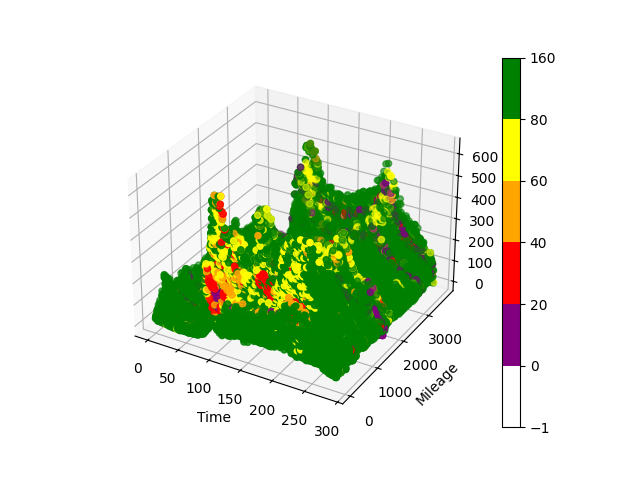
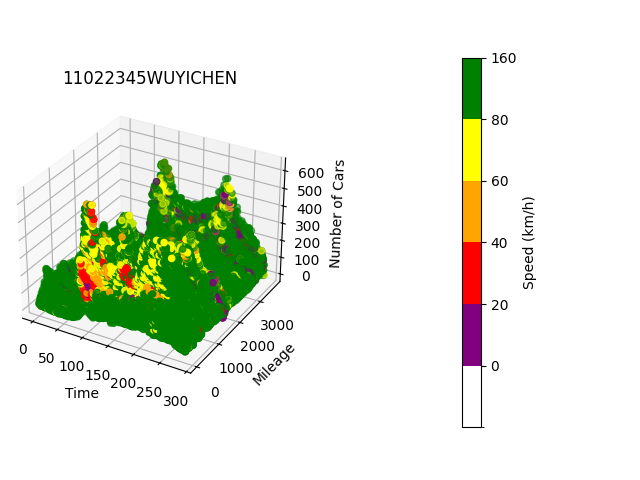
end

diff --git a/20240507/11022345_2.py b/20240507/11022345_2.py
@@ -20,7 +20,6 @@ df['direction'] = df['direction'].map({'N': 0, 'S': 1})
 
 # 刪除原始的'gate'欄位
 df = df.drop(columns=['gate'])
-print(df)
 #以x軸為時間，y軸為mileage，Z為車輛數也就是第二欄，顏色為速度畫出四維圖
 #速度的分色為藍色到紅色
 import matplotlib.pyplot as plt
@@ -47,14 +46,19 @@ cmap = ListedColormap(colors)
 # 繪製散點圖，其中x軸為時間，y軸為里程數，z軸為車輛數，顏色為速度
 sc = ax.scatter(df['time'], df['mileage'], df['31小客車'], c=df['31小客車速度'], cmap=cmap, norm=norm)
 
-# 添加顏色條
-plt.colorbar(sc)
+# 添加顏色條，並將其與圖形的距離設為10%的圖形寬度，並設置標籤
+cbar = plt.colorbar(sc,pad=0.3)
+cbar.set_label('Speed (km/h)')
+cbar.set_ticks([0, 20, 40, 60, 80, 160])
+cbar.set_ticklabels(['0', '20', '40', '60', '80', '160'])
+
 
 # 設置軸標籤
 ax.set_xlabel('Time')
 ax.set_ylabel('Mileage')
 ax.set_zlabel('Number of Cars')
-
+plt.title('11022345WUYICHEN')
+plt.subplots_adjust(left=0, right=0.85)
 # 顯示圖形
 plt.show()
 #圖形存下來
